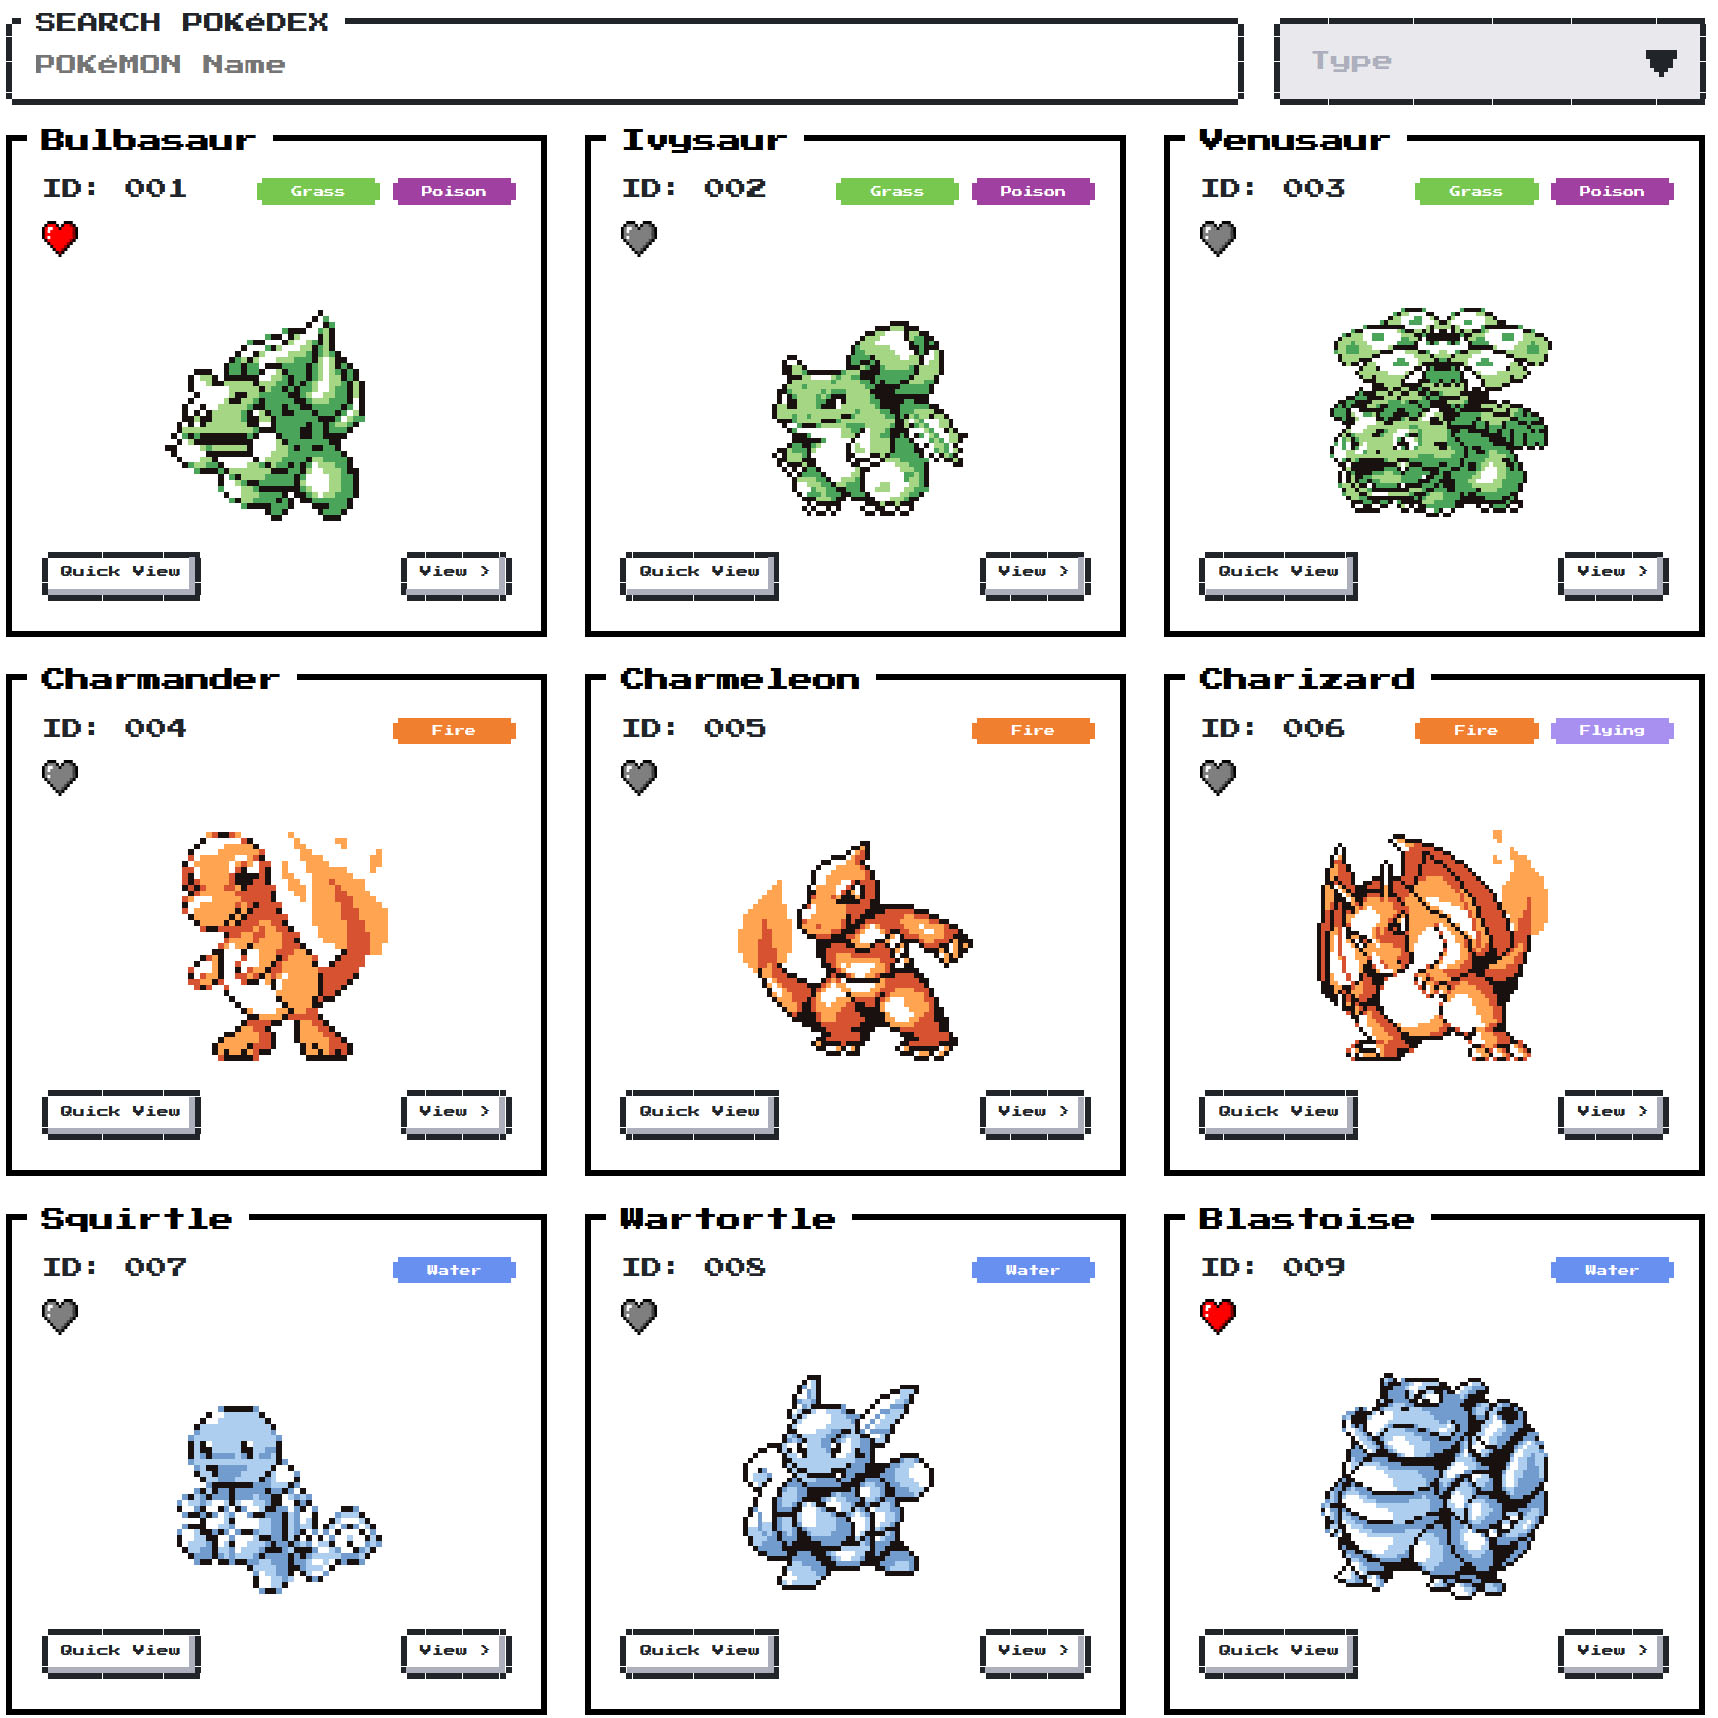
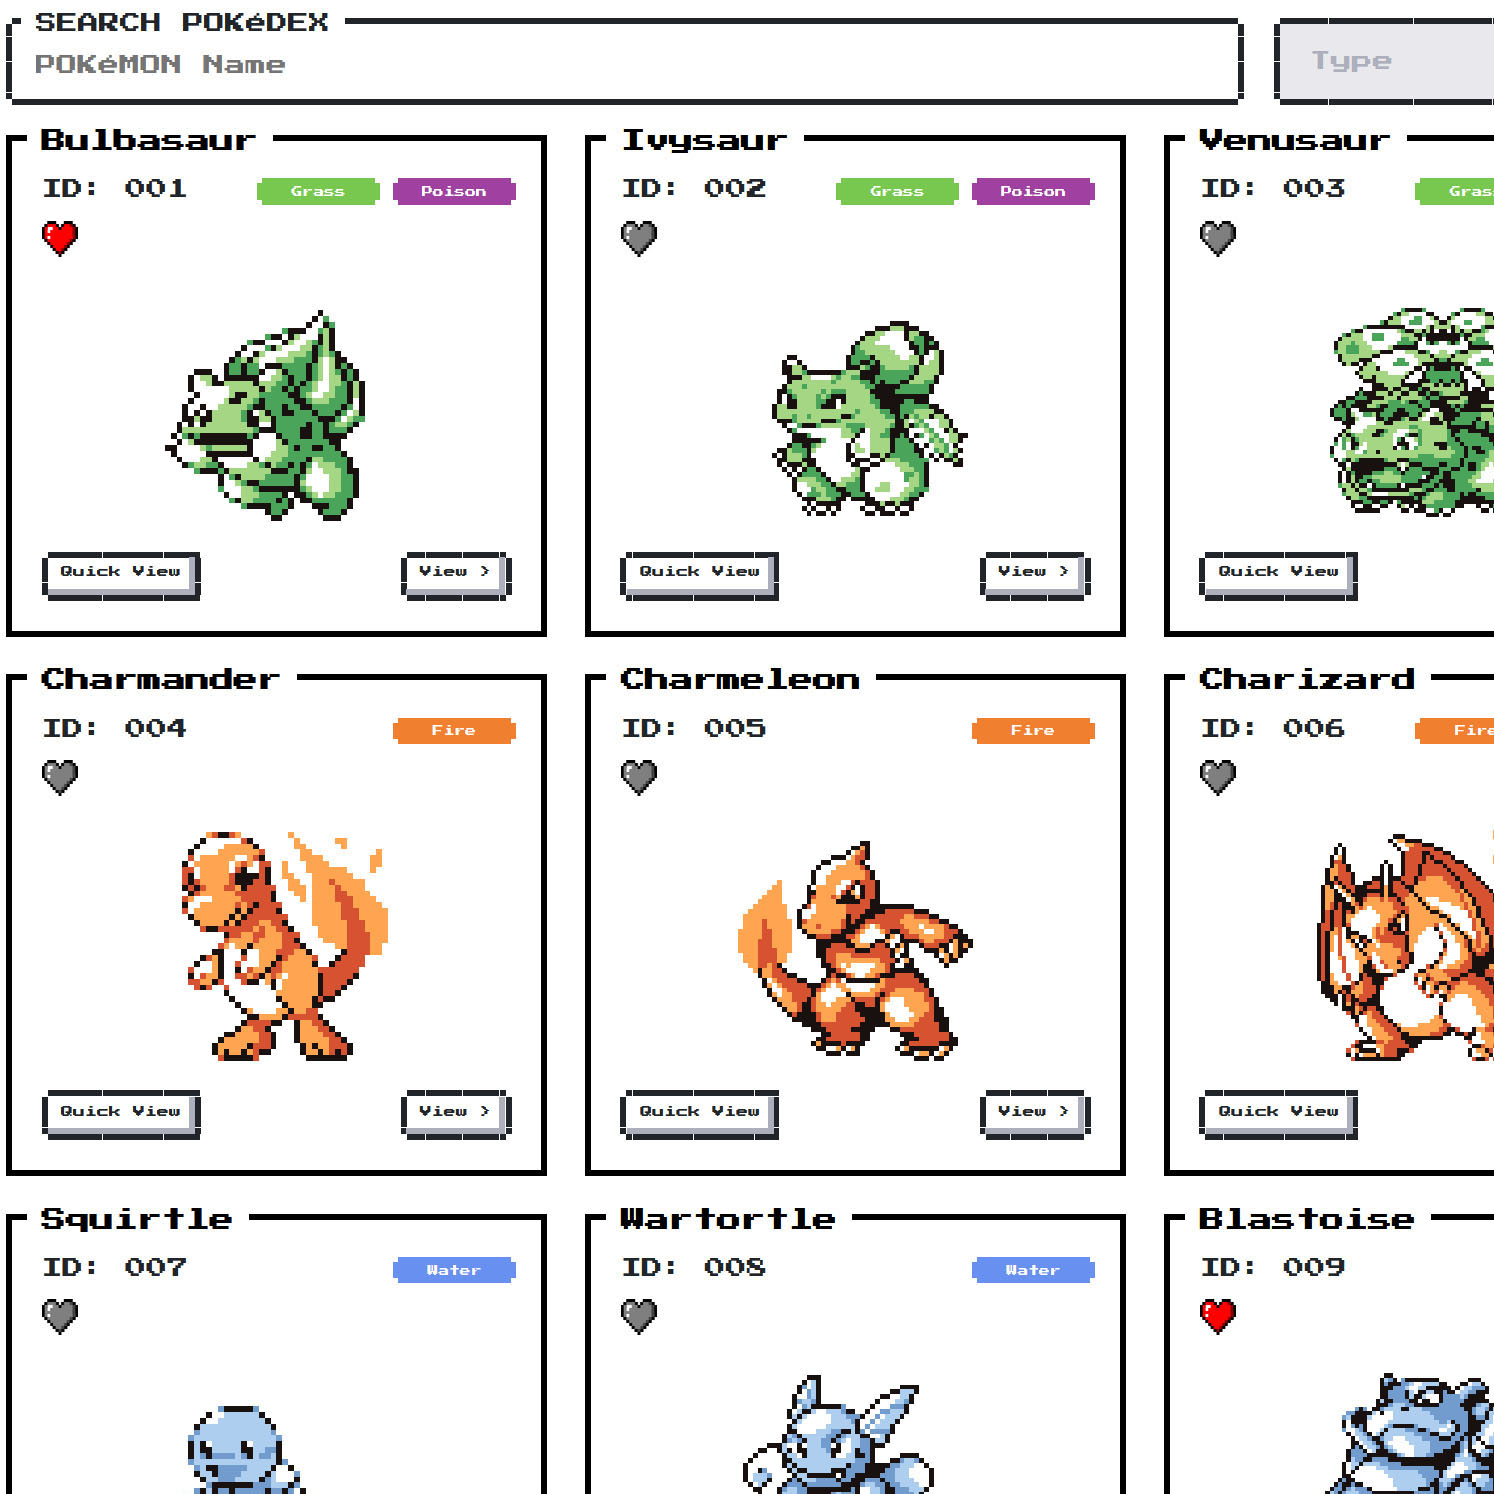
Add pokedex piece

diff --git a/src/sass/_layout.scss b/src/sass/_layout.scss
@@ -29,13 +29,13 @@
 	
 	.main-content {
 		flex: 1 1 auto;
-		width: 100%;
+		width: 80%;
 		max-width: 1200px;
 		margin-left: auto;
 		margin-right: auto;
 
 		@include tablet {
-			width: 100%;
+			width: 70%;
 			max-width: 1200px;
 		}
 	}
